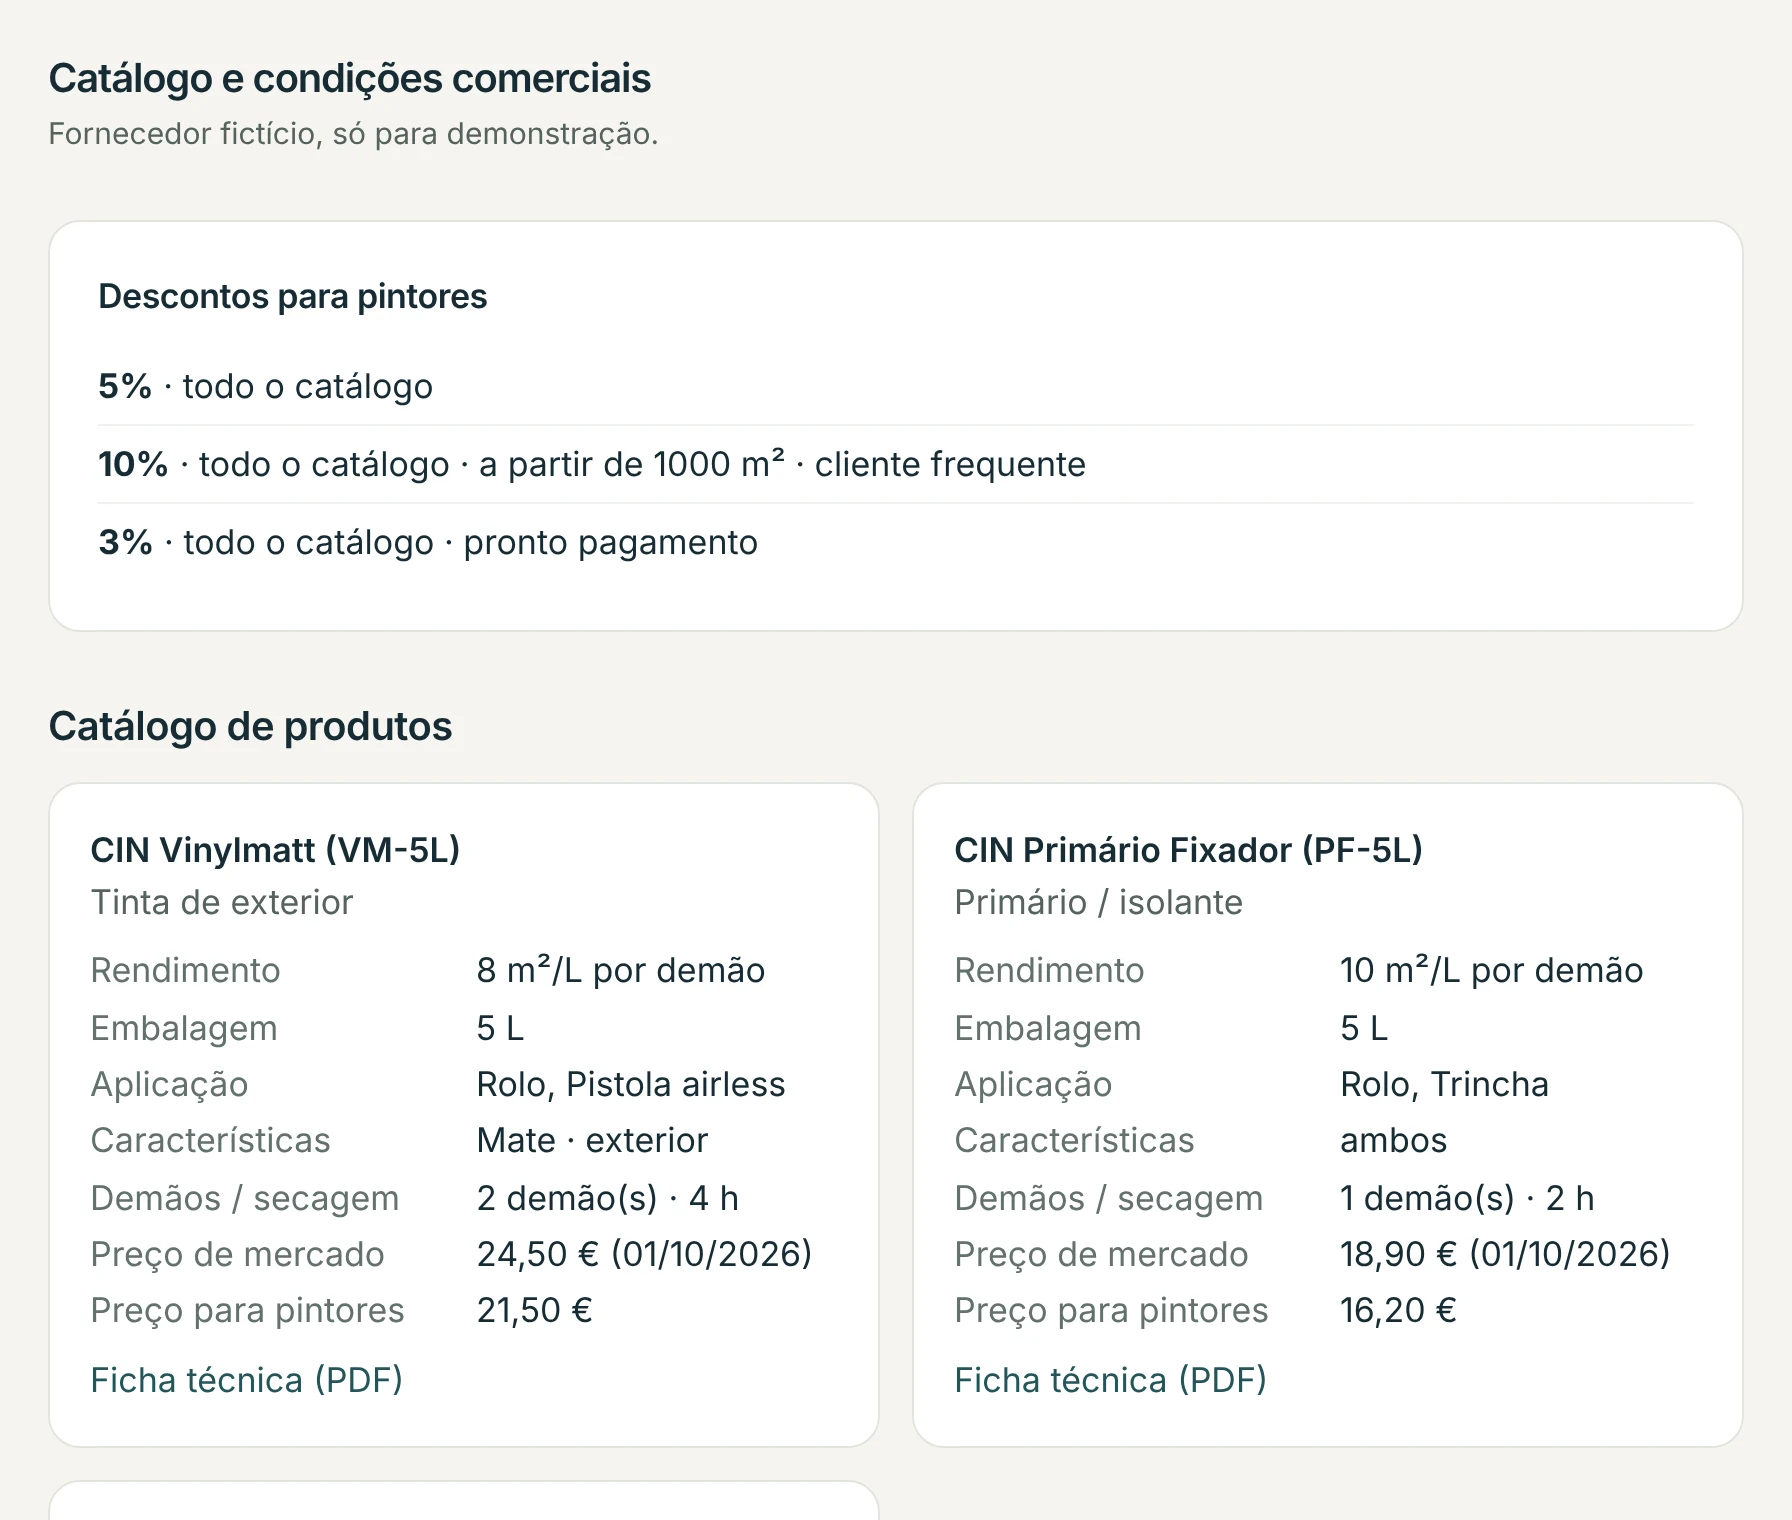
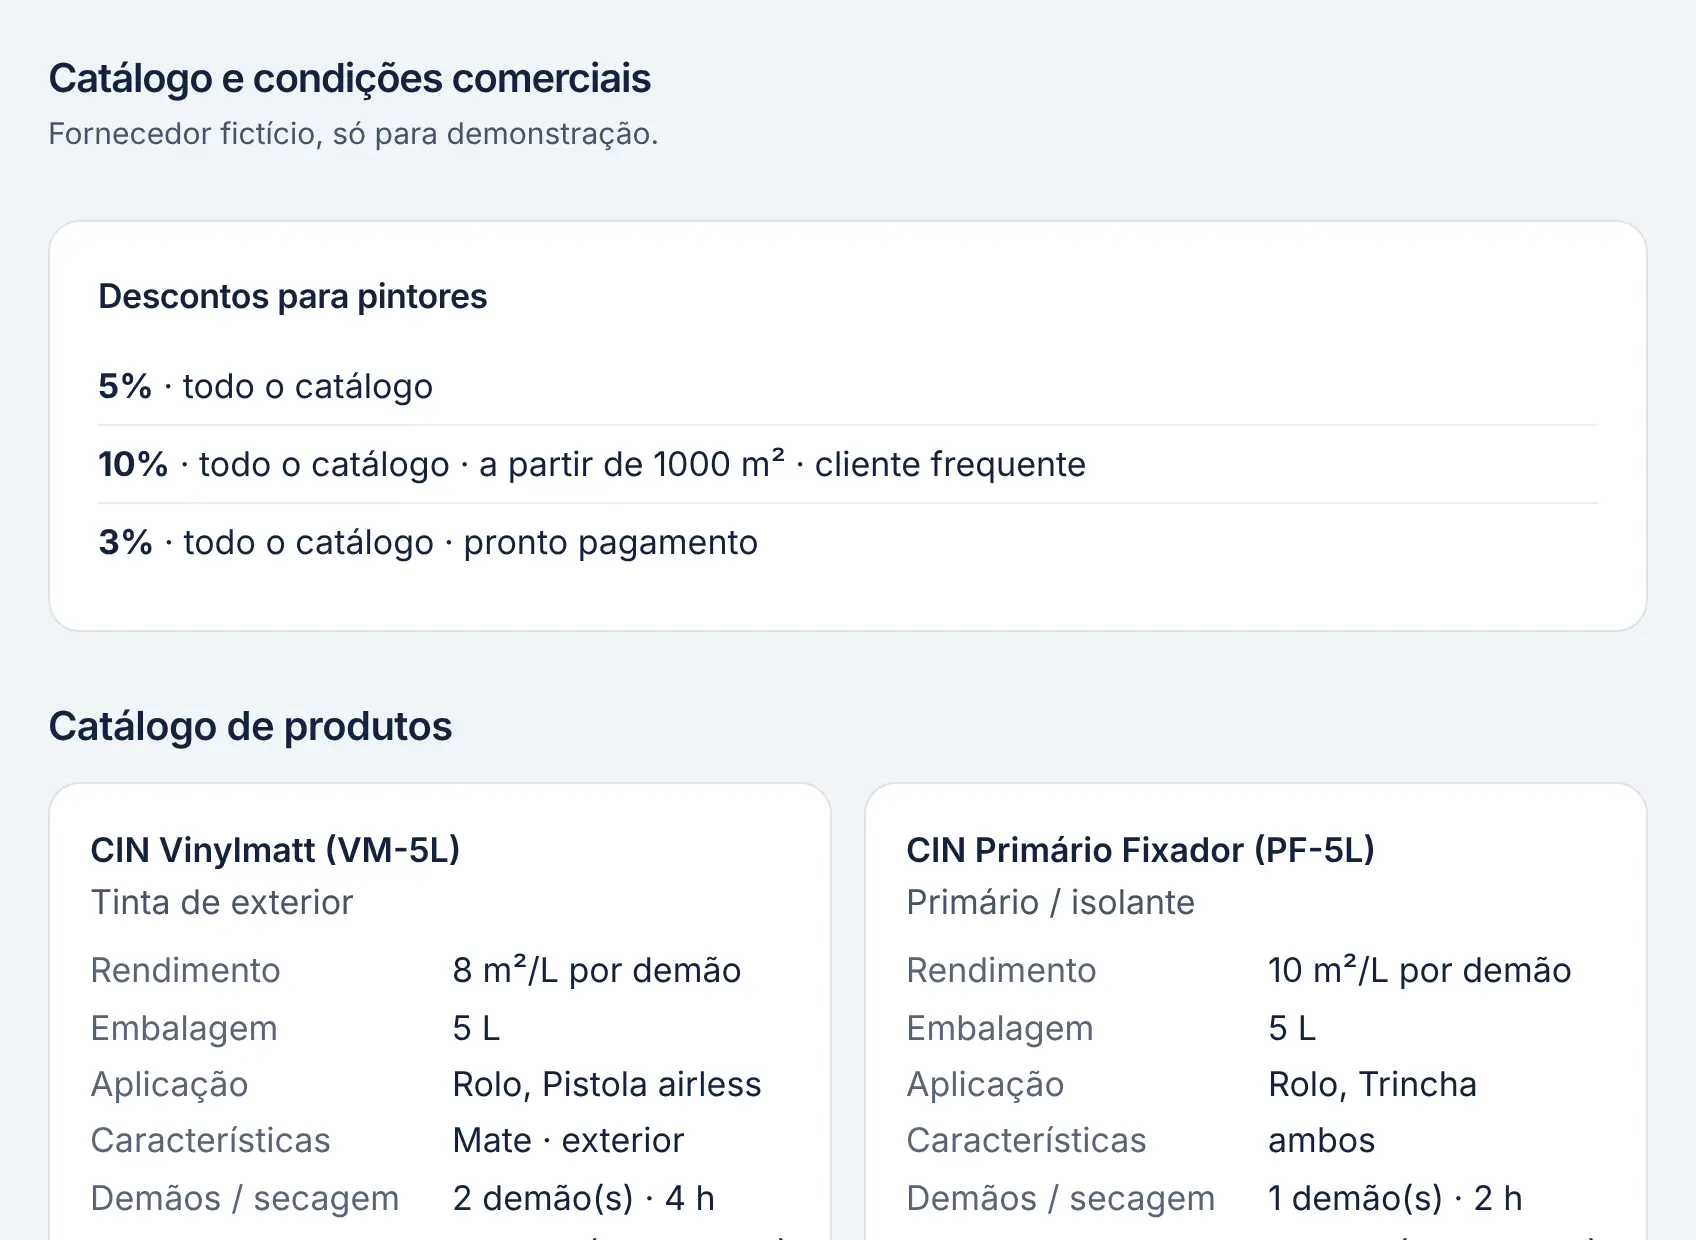
Para quem: cartões com identidade, nome do perfil como título e o ecrã real de cada um; capturas regeneradas na paleta v5
Claude-Session: https://claude.ai/code/session_01NCY5SBnuWidUthsPHZJKr9

diff --git a/src/app/page.tsx b/src/app/page.tsx
@@ -268,30 +268,55 @@ export default function Home() {
         </div>
       </section>
 
-      {/* PARA QUEM — dois cartões para as páginas próprias do pintor e do fornecedor. */}
+      {/* PARA QUEM — dois cartões com identidade própria, cada um com o ecrã real do seu perfil
+          (as capturas geradas dos componentes reais em `src/app/demo-*`). O nome do perfil é o
+          título: era um rótulo de 13px e passava invisível (promotor, 01/11/2026). */}
       <section id="para-quem" className="bg-paper py-20">
         <div className="mx-auto max-w-6xl px-4">
           <p className="eyebrow">É do outro lado da obra?</p>
           <h2 className="mt-3 text-[34px] leading-tight font-extrabold text-tinta-900">A plataforma também é sua.</h2>
           <div className="mt-9 grid gap-6 md:grid-cols-2">
-            <Link href="/empresas" className="group flex flex-col gap-3 rounded-2xl border border-slate-200 bg-white p-8 hover:border-tinta-300">
-              <span className="eyebrow !text-tinta-600">Empresa de pintura</span>
-              <span className="text-[26px] font-extrabold leading-tight text-tinta-900">Há mais obras do que empresas para as fazer.</span>
-              <span className="text-[15px] leading-relaxed text-slate-600">
-                Oportunidades na sua zona, orçamento guiado em 4 passos, documento A4 automático e gestão de obra. Só
-                paga quando ganha.
-              </span>
-              <span className="mt-auto pt-3 text-[17px] font-bold text-tinta-600 group-hover:underline">Ver como funciona para empresas →</span>
-            </Link>
-            <Link href="/fornecedores" className="group flex flex-col gap-3 rounded-2xl border border-slate-200 bg-white p-8 hover:border-tinta-300">
-              <span className="eyebrow !text-tinta-600">Fornecedor de tintas</span>
-              <span className="text-[26px] font-extrabold leading-tight text-tinta-900">O seu produto, onde a decisão é tomada.</span>
-              <span className="text-[15px] leading-relaxed text-slate-600">
-                Catálogo sugerido nas propostas dos pintores, descontos automáticos por perfil de cliente, e
-                levantamentos no terreno para a sua equipa comercial.
-              </span>
-              <span className="mt-auto pt-3 text-[17px] font-bold text-tinta-600 group-hover:underline">Ver como funciona para fornecedores →</span>
-            </Link>
+            {[
+              {
+                href: '/empresas',
+                titulo: 'Empresa de pintura?',
+                frase: 'Há mais obras do que empresas para as fazer.',
+                texto: 'Oportunidades na sua zona, orçamento guiado em 4 passos, documento A4 automático e gestão de obra. Só paga quando ganha.',
+                cta: 'Ver como funciona para empresas',
+                img: '/img/popup-demo-pintor.webp',
+                alt: 'Orçamento guiado: trabalho selecionado com sugestões de produto do catálogo',
+                escuro: true,
+              },
+              {
+                href: '/fornecedores',
+                titulo: 'Fornecedor de tintas?',
+                frase: 'O seu produto, onde a decisão é tomada.',
+                texto: 'Catálogo sugerido nas propostas dos pintores, descontos automáticos por perfil de cliente, e levantamentos no terreno para a sua equipa comercial.',
+                cta: 'Ver como funciona para fornecedores',
+                img: '/img/popup-demo-fornecedor.webp',
+                alt: 'Catálogo de produtos de um fornecedor, com fichas técnicas e descontos',
+                escuro: false,
+              },
+            ].map((c) => (
+              <Link
+                key={c.href}
+                href={c.href}
+                className={`group flex flex-col overflow-hidden rounded-2xl ${c.escuro ? 'bg-tinta-900 text-white' : 'border border-tinta-200 bg-tinta-100 text-tinta-900'}`}
+              >
+                <div className="flex flex-col gap-3 p-8 pb-6">
+                  <span className="text-[26px] font-extrabold leading-tight">{c.titulo}</span>
+                  <span className={`text-[20px] font-bold leading-snug ${c.escuro ? 'text-lima' : 'text-tinta-600'}`}>{c.frase}</span>
+                  <span className={`text-[15px] leading-relaxed ${c.escuro ? 'text-tinta-200' : 'text-slate-600'}`}>{c.texto}</span>
+                  <span className={`mt-2 inline-flex min-h-[44px] w-fit items-center rounded-lg px-4 text-[15px] font-bold ${c.escuro ? 'bg-white text-tinta-900' : 'bg-tinta-600 text-white'}`}>
+                    {c.cta} →
+                  </span>
+                </div>
+                <div className="mx-8 -mb-2 h-56 overflow-hidden rounded-t-2xl bg-white shadow-[0_-8px_30px_rgba(20,33,61,0.18)]">
+                  {/* eslint-disable-next-line @next/next/no-img-element */}
+                  <img src={c.img} alt={c.alt} className="block w-full object-cover object-top transition-transform duration-500 group-hover:-translate-y-3" />
+                </div>
+              </Link>
+            ))}
           </div>
         </div>
       </section>

diff --git a/src/components/landing/perfis.ts b/src/components/landing/perfis.ts
@@ -17,8 +17,8 @@ export const DEMO_DE_PERFIL: Record<Tipo, { src: string; width: number; height: 
   },
   fornecedor: {
     src: '/img/popup-demo-fornecedor.webp',
-    width: 1792,
-    height: 1520,
+    width: 1696,
+    height: 1240,
     alt: 'Catálogo de produtos de um fornecedor, com fichas técnicas e preços, e a lista de descontos que já tem definidos para os pintores.',
     legenda: 'O catálogo e os descontos, exatamente como o pintor os vê.',
   },
